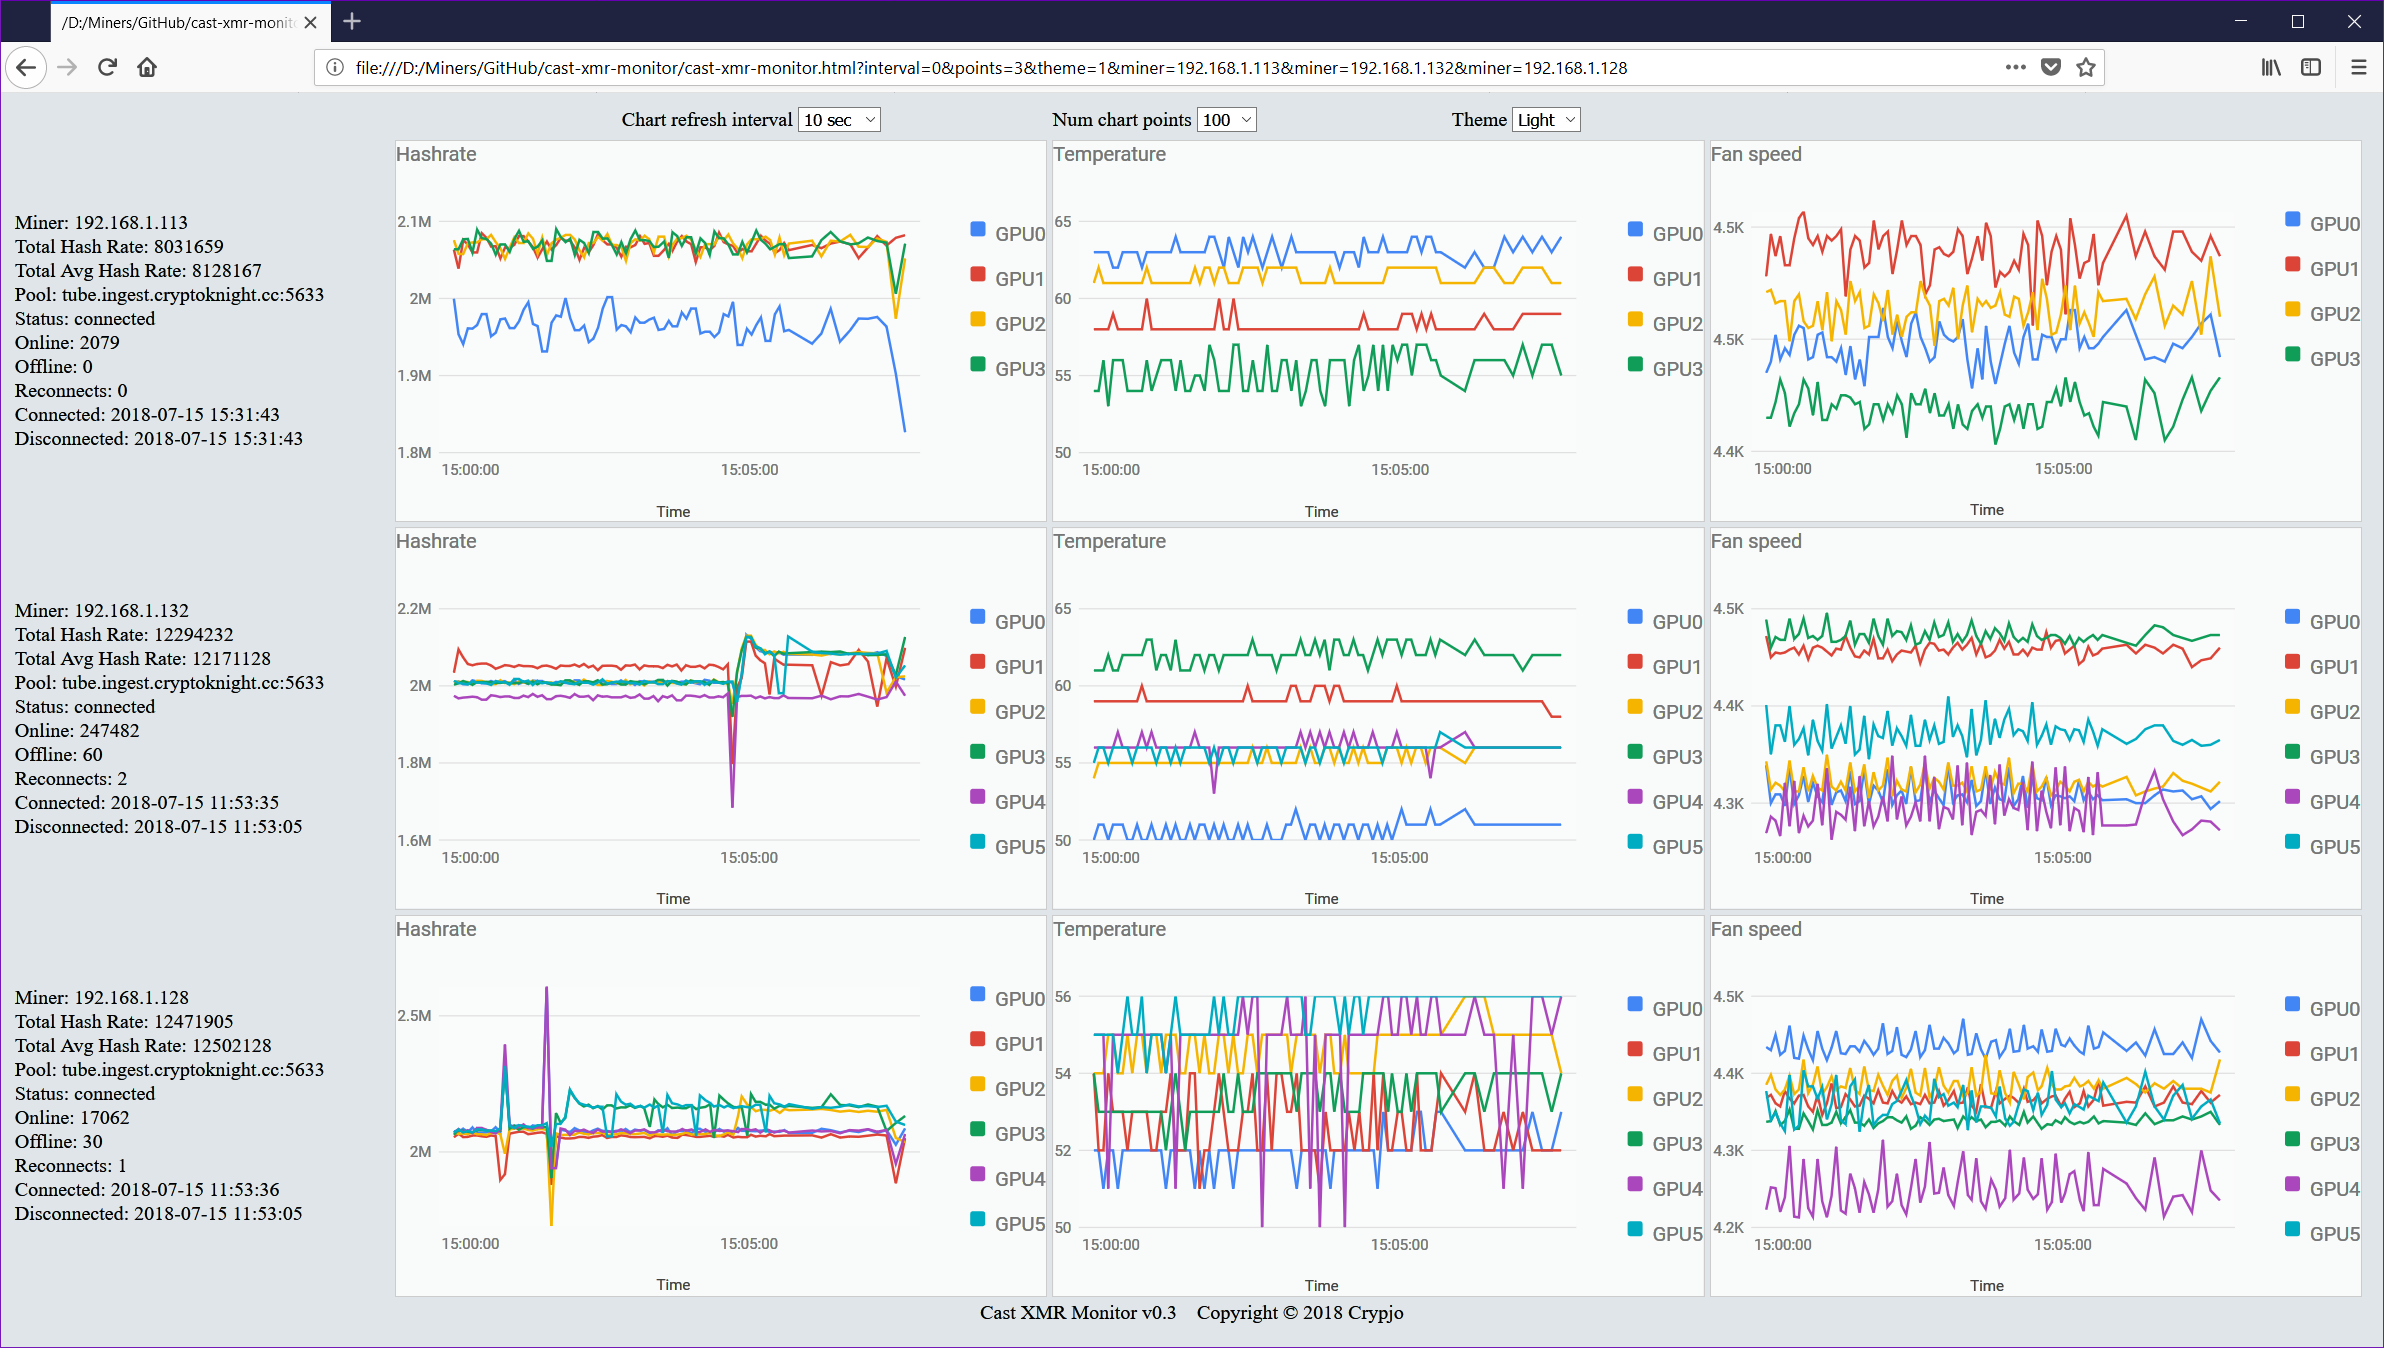
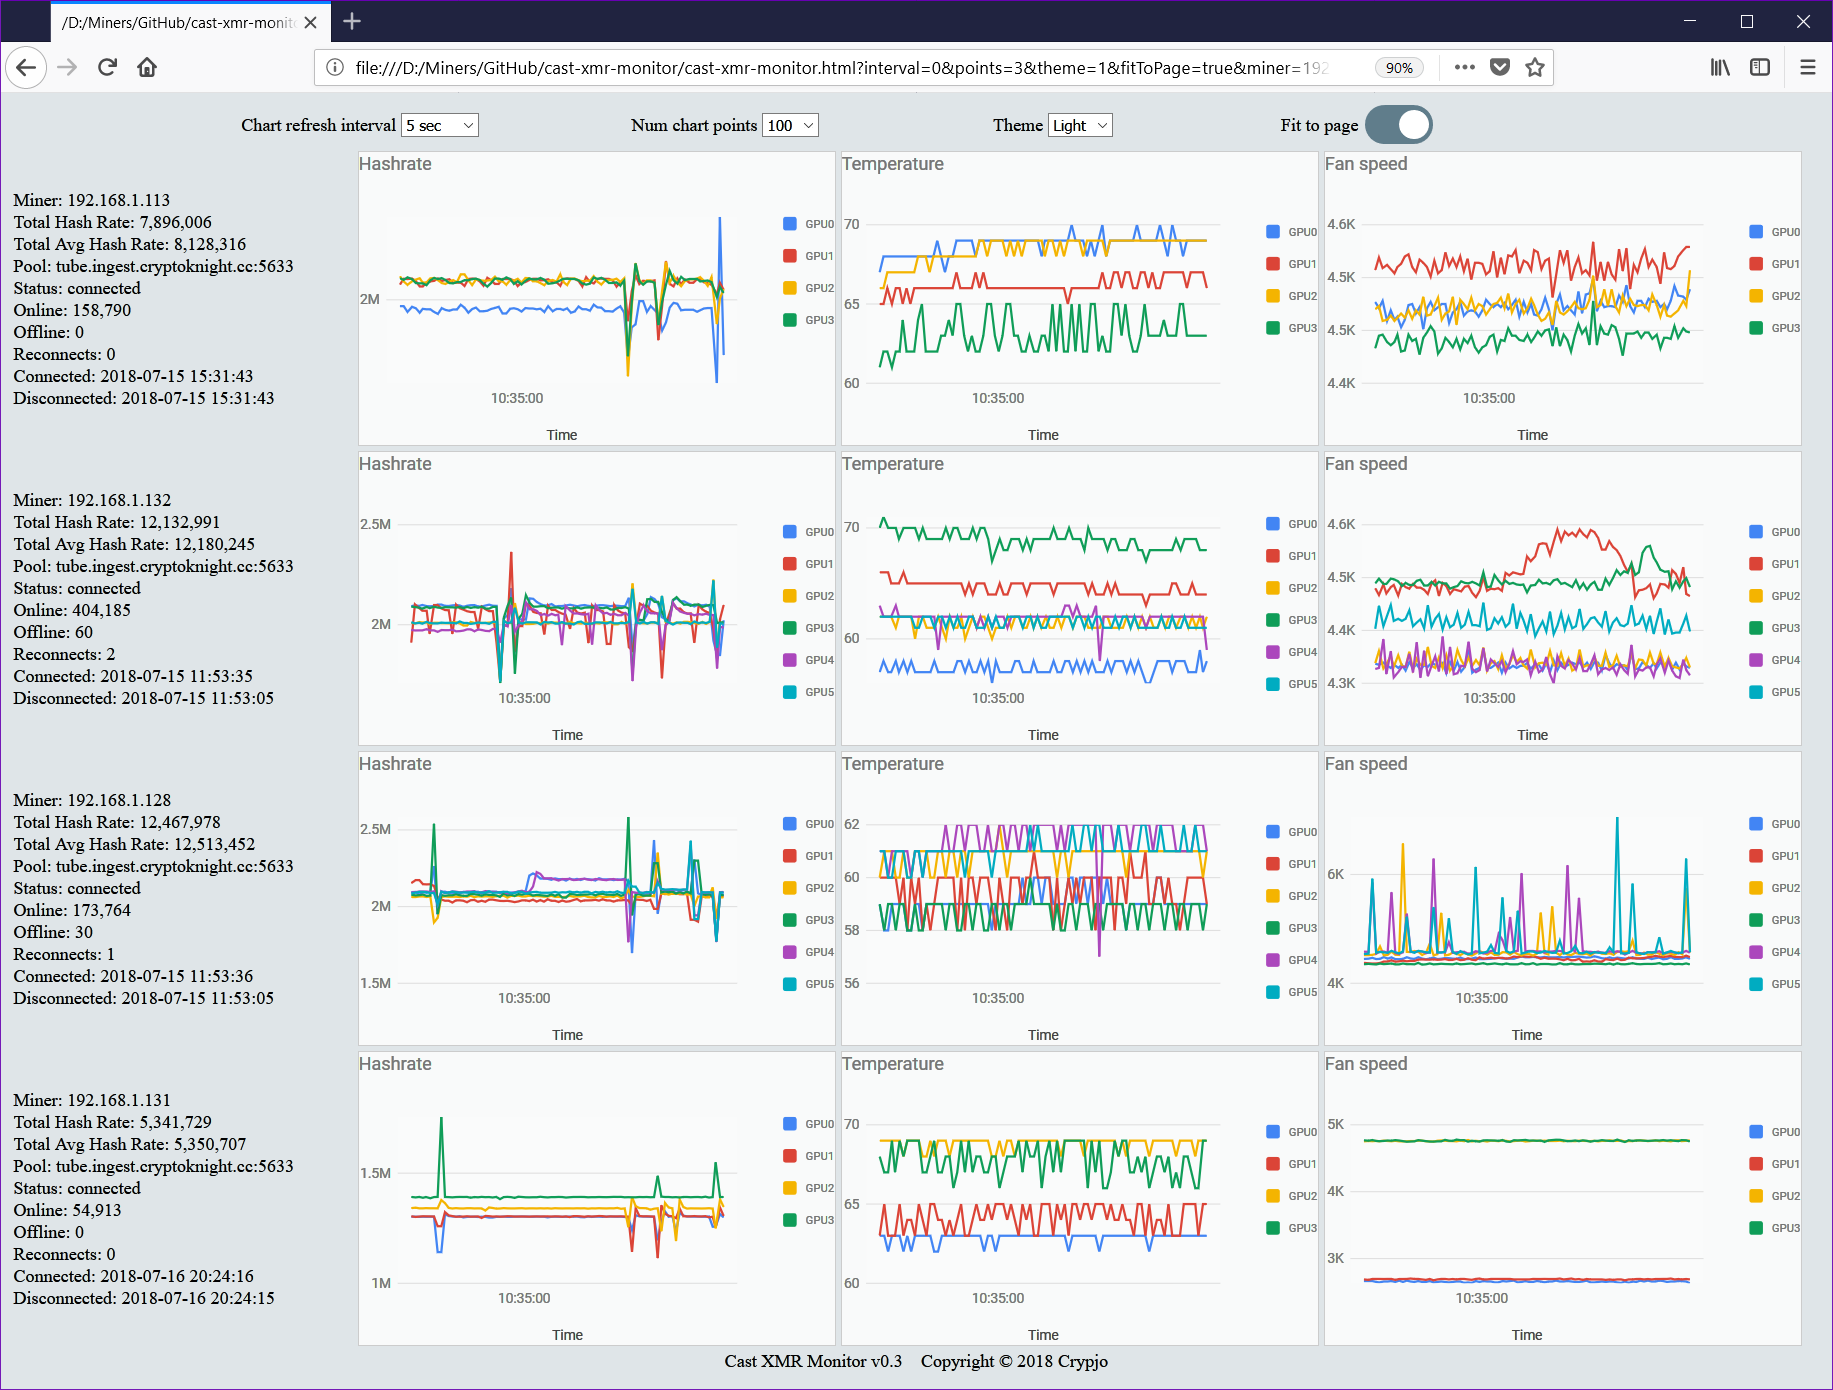
Added scrollable or fit to page option
Enabled scrollable view to enable larger number of miners.  Added support to parameters.

Changed region(s): [[0.0, 0.0, 1.0, 0.997]]

diff --git a/cast-xmr-monitor.html b/cast-xmr-monitor.html
@@ -41,6 +41,66 @@
 		.w3-hover-theme:hover {color:#fff !important; background-color:#607d8b !important}
 		.w3-hover-text-theme:hover {color:#607d8b !important}
 		.w3-hover-border-theme:hover {border-color:#607d8b !important}	
+		
+				
+		/* The switch - the box around the slider */
+		.switch {
+		  position: relative;
+		  display: inline-block;
+		  width: 60px;
+		  height: 34px;
+		}
+
+		/* Hide default HTML checkbox */
+		.switch input {display:none;}
+
+		/* The slider */
+		.slider {
+		  position: absolute;
+		  cursor: pointer;
+		  top: 0;
+		  left: 0;
+		  right: 0;
+		  bottom: 0;
+		  background-color: #000;
+		  -webkit-transition: .4s;
+		  transition: .4s;
+		}
+
+		.slider:before {
+		  position: absolute;
+		  content: "";
+		  height: 26px;
+		  width: 26px;
+		  left: 4px;
+		  bottom: 4px;
+		  background-color: white;
+		  -webkit-transition: .4s;
+		  transition: .4s;
+		}
+
+		input:checked + .slider {
+		  background-color: #607d8b;
+		}
+
+		input:focus + .slider {
+		  box-shadow: 0 0 1px #2196F3;
+		}
+
+		input:checked + .slider:before {
+		  -webkit-transform: translateX(26px);
+		  -ms-transform: translateX(26px);
+		  transform: translateX(26px);
+		}
+
+		/* Rounded sliders */
+		.slider.round {
+		  border-radius: 34px;
+		}
+
+		.slider.round:before {
+		  border-radius: 50%;
+		}		
 	</style>
 	
     <script type="text/javascript" src="https://www.gstatic.com/charts/loader.js"></script>
@@ -87,6 +147,9 @@
 				var element = document.getElementById("theme-select");
 				element.value = index;					
 				setTheme(element);
+			}
+			if ( [param[0]] == 'fitToPage' ) { 
+				document.getElementById('fitToPage').checked = param[1] == 'true';
 			}
 		}
 		if(urls.length < 1) {
@@ -196,8 +259,9 @@
 			
 			dataTable.sort([{column: 0}]);
 			
-			var w = (window.innerWidth - headerWidth ) / 3 - 15;
-			var h = window.innerHeight / urls.length - 20;
+			var w = (window.innerWidth - headerWidth ) / 3 - 18;
+			var fitToPage = document.getElementById('fitToPage').checked;
+			var h = fitToPage ? window.innerHeight / urls.length - 27 : 300;
 			
 			var options = {
 				width: w,
@@ -207,7 +271,7 @@
 					title: metrics[m]
 				},
 				chartArea: {
-					width: '60%', height: '100%',
+					width: '80%', height: '100%',
 					backgroundColor: {
 					  fill: (theme == 'Dark') ? 'black' : 'white',
 					  fillOpacity: 0.1
@@ -408,6 +472,16 @@
 						<option value="0">Light</option>
 						<option value="1">Dark</option>
 					  </select>			
+				</div></td>	
+				<!-- Rounded switch -->
+				<td><div>
+					<label style="display: table-cell;">Fit to page</label>
+				</div></td>	
+				<td><div style="width:200px;">
+					<label class="switch">
+						<input id="fitToPage" type="checkbox">
+						<span class="slider round"></span>
+					</label>
 				</div></td>	
 			</tr>
 		</table>

diff --git a/ReadMe.md b/ReadMe.md
@@ -25,6 +25,16 @@ To use open local file in browser and pass mining rigs IPs or names
 <br><br>
 Supports specifying initial values for chart parameters.  These are specified by the 0 based index of the item in the drop down
 <br><br>
-&nbsp;&nbsp;file:///d:/Path/cast-xmr-monitor.html?interval=2&points=3&theme=1&miner=miner1&miner=miner2&miner=miner3
+&nbsp;&nbsp;file:///d:/Path/cast-xmr-monitor.html?interval=2&points=3&theme=1&fitToPage=true&miner=miner1&miner=miner2&miner=miner3
 <br><br>
-Added a simple theme select for night view support
+Parameters Supported:
+<ul>
+<li>miner - IP or machine name</li>
+<li>interval - 0 based index</li>
+<li>points - 0 based index</li>
+<li>theme - 0 based index</li>
+<li>fitToPage - true or false</li>
+</ul>
+<br>
+Added theme select for night view support
+Added Fit to Page option to enable scrolling for large number of miners
